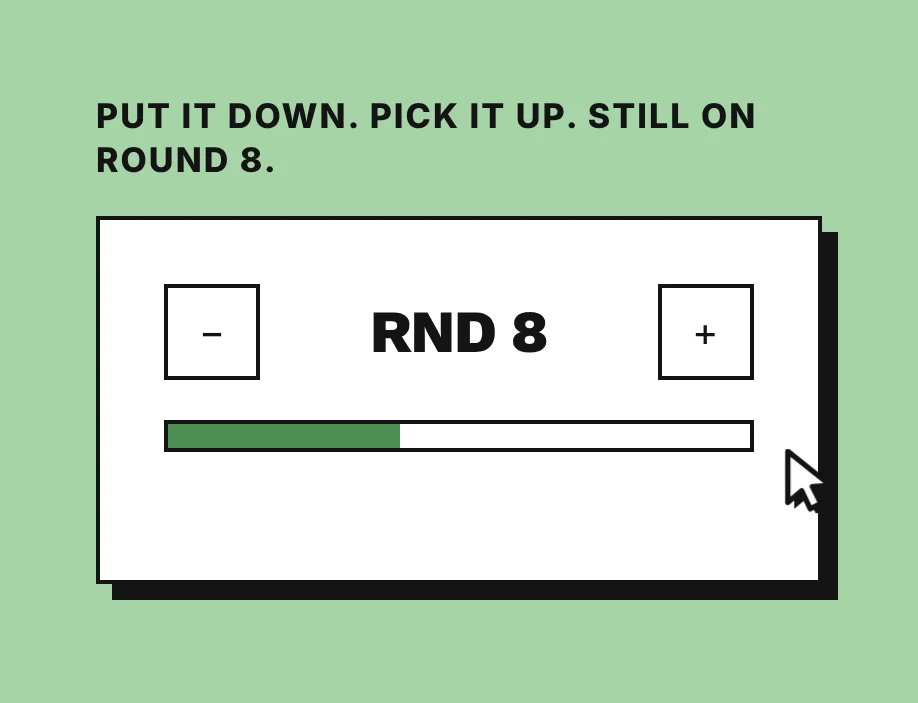
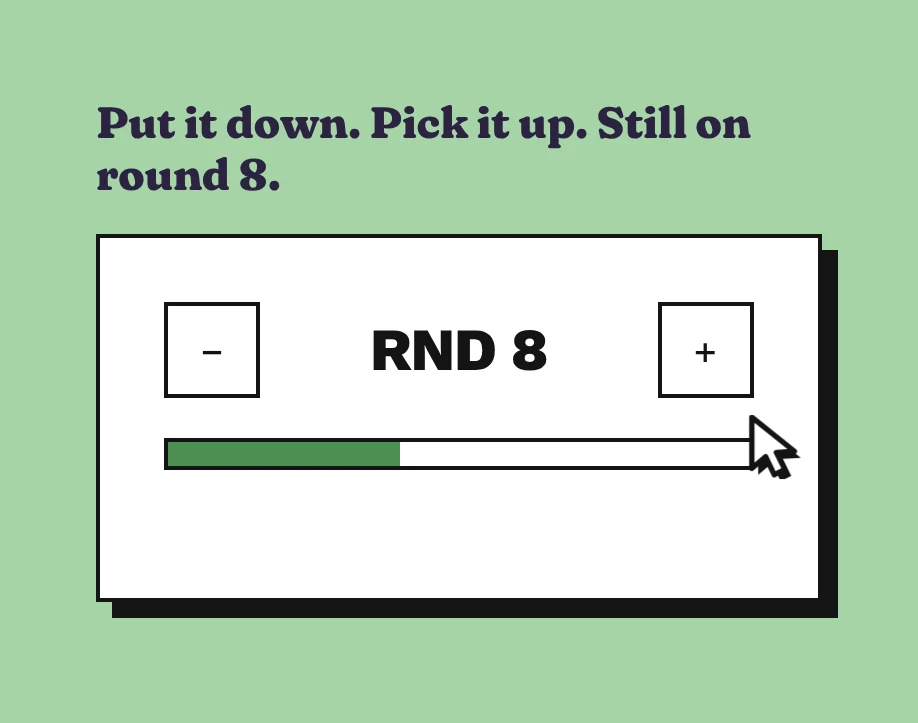
Knot cards: titles in the site's heading font, sentence case
Claude-Session: https://claude.ai/code/session_01AEbKMrsaeiiooea7bnJphi

diff --git a/src/content/caseStudies.tsx b/src/content/caseStudies.tsx
@@ -48,7 +48,7 @@ export type CaseStudy = {
   tldr?: { points: { label: string; body: React.ReactNode }[]; stats?: { value: string; label: string }[] };
 };
 
-const knotSizes: Record<string, [number, number]> = {"tap-a-row": [918, 922], "the-key": [918, 914], "plain-words": [1600, 636], "diagrams": [1600, 697], "your-place": [918, 703], "your-size": [1392, 707], "your-hook": [918, 811], "yarns": [920, 842]};
+const knotSizes: Record<string, [number, number]> = {"tap-a-row": [918, 922], "the-key": [918, 914], "plain-words": [1600, 636], "diagrams": [1600, 697], "your-place": [918, 723], "your-size": [1392, 715], "your-hook": [918, 820], "yarns": [920, 850]};
 /* A Knot a Problem image, with its size so pairs can be laid out at equal heights */
 const knotBg: Record<string, string> = {"diagrams": "#a6d4a7", "plain-words": "#f1d16c", "tap-a-row": "#f1d16c", "the-key": "#f1d16c", "yarns": "#899cee", "your-hook": "#8a9ded", "your-place": "#a6d4a7", "your-size": "#8a9ded"};
 const k = (name: string, alt: string): Img => ({ src: `/work/knot/${name}.webp`, alt, w: knotSizes[name][0], h: knotSizes[name][1], bg: knotBg[name] });
